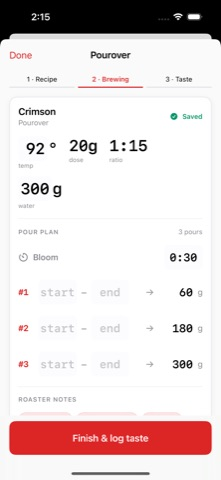
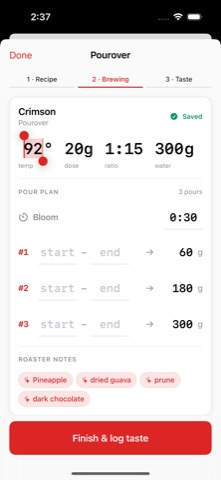
Refine live brew editor styling

diff --git a/web/src/components/recipe-readout.tsx b/web/src/components/recipe-readout.tsx
@@ -236,9 +236,11 @@ export function BrewStatGrid({
               }}
             />
           ) : (
-            <span className="font-mono text-3xl font-bold tabular-nums">
-              {stat.value}
-            </span>
+            <div className="flex h-11 items-center">
+              <span className="font-mono text-3xl font-bold leading-none tabular-nums">
+                {stat.value}
+              </span>
+            </div>
           )}
           <span className="text-xs text-muted-foreground">{stat.label}</span>
         </div>
@@ -261,7 +263,7 @@ function LiveNumberInput({
   onChange: (value?: number) => void;
 }) {
   return (
-    <label className="flex min-h-11 items-center rounded-lg bg-muted/40 px-1 focus-within:ring-2 focus-within:ring-ring">
+    <label className="flex h-11 items-center border-b border-transparent focus-within:border-primary">
       <Input
         type="text"
         inputMode={integer ? "numeric" : "decimal"}
@@ -274,9 +276,9 @@ function LiveNumberInput({
           const parsed = Number(raw);
           if (Number.isFinite(parsed)) onChange(integer ? Math.round(parsed) : parsed);
         }}
-        className="h-10 w-20 border-0 bg-transparent px-1 text-right font-mono text-3xl font-bold tabular-nums shadow-none focus-visible:ring-0"
+        className="h-11 w-auto min-w-[2ch] max-w-20 rounded-none border-0 bg-transparent px-0 text-right font-mono text-3xl font-bold leading-none tabular-nums shadow-none [field-sizing:content] focus-visible:ring-0 md:text-3xl dark:bg-transparent"
       />
-      <span className="font-mono text-3xl font-bold">{suffix}</span>
+      <span className="font-mono text-3xl font-bold leading-none">{suffix}</span>
     </label>
   );
 }
@@ -325,7 +327,7 @@ export function PourPlanList({
             aria-label="Bloom time"
             seconds={recipe.bloomTimeSec}
             onChange={(seconds) => onChange({ ...recipe, bloomTimeSec: seconds })}
-            className="h-11 w-24 text-center text-lg font-semibold"
+            className="h-11 w-16 rounded-none border-0 border-b border-transparent bg-transparent px-0 text-center font-mono text-base font-semibold shadow-none focus-visible:border-primary focus-visible:ring-0 md:text-base dark:bg-transparent"
             placeholder="—"
           />
         </div>
@@ -370,7 +372,7 @@ export function PourPlanList({
                     aria-label={`Pour ${index + 1} start time`}
                     seconds={pour?.startSec}
                     onChange={(seconds) => updatePour({ startSec: seconds })}
-                    className="h-11 w-[4.5rem] px-1 text-center text-lg font-semibold"
+                    className="h-11 w-14 rounded-none border-0 border-b border-transparent bg-transparent px-0 text-center font-mono text-base font-semibold shadow-none focus-visible:border-primary focus-visible:ring-0 md:text-base dark:bg-transparent"
                     placeholder="start"
                   />
                   <span className="text-muted-foreground">–</span>
@@ -379,7 +381,7 @@ export function PourPlanList({
                     aria-label={`Pour ${index + 1} end time`}
                     seconds={pour?.endSec}
                     onChange={(seconds) => updatePour({ endSec: seconds })}
-                    className="h-11 w-[4.5rem] px-1 text-center text-lg font-semibold"
+                    className="h-11 w-14 rounded-none border-0 border-b border-transparent bg-transparent px-0 text-center font-mono text-base font-semibold shadow-none focus-visible:border-primary focus-visible:ring-0 md:text-base dark:bg-transparent"
                     placeholder="end"
                   />
                 </div>
@@ -394,7 +396,7 @@ export function PourPlanList({
               )}
             </div>
             {onChange ? (
-              <label className="flex min-h-11 shrink-0 items-center rounded-lg bg-muted/40 px-1 focus-within:ring-2 focus-within:ring-ring">
+              <label className="flex min-h-11 shrink-0 items-baseline border-b border-transparent focus-within:border-primary">
                 <Input
                   type="text"
                   inputMode="decimal"
@@ -407,7 +409,7 @@ export function PourPlanList({
                     const parsed = Number(raw);
                     if (Number.isFinite(parsed)) updatePour({ toGrams: parsed });
                   }}
-                  className="h-10 w-16 border-0 bg-transparent px-1 text-right font-mono text-lg font-semibold tabular-nums shadow-none focus-visible:ring-0"
+                  className="h-10 w-14 rounded-none border-0 bg-transparent px-0 text-right font-mono text-base font-semibold tabular-nums shadow-none focus-visible:ring-0 md:text-base dark:bg-transparent"
                 />
                 <span className="text-sm text-muted-foreground">g</span>
               </label>

diff --git a/DripWatch/Features/Capture/BrewCaptureView.swift b/DripWatch/Features/Capture/BrewCaptureView.swift
@@ -804,7 +804,10 @@ private struct LockedBrewStat: View {
 
     var body: some View {
         VStack(alignment: .leading, spacing: 2) {
-            Text(value).font(.param(.title, weight: .semibold))
+            HStack(spacing: 0) {
+                Text(value).font(.param(.title, weight: .semibold))
+            }
+            .frame(height: 44, alignment: .center)
             Text(label).font(.caption2).foregroundStyle(.secondary)
         }
     }
@@ -817,20 +820,27 @@ private struct LiveRecipeNumberField: View {
     let suffix: String
     @Binding var value: Double?
     let allowsDecimal: Bool
+    @FocusState private var focused: Bool
 
     var body: some View {
         VStack(alignment: .leading, spacing: 2) {
             HStack(spacing: 1) {
                 TextField("—", value: $value,
                           format: .number.precision(.fractionLength(allowsDecimal ? 0...1 : 0...0)))
+                    .textFieldStyle(.plain)
                     .keyboardType(allowsDecimal ? .decimalPad : .numberPad)
                     .multilineTextAlignment(.trailing)
+                    .focused($focused)
                     .font(.param(.title, weight: .semibold))
-                    .frame(minWidth: 44, maxWidth: 76, minHeight: 44)
-                    .padding(.horizontal, 4)
-                    .background(Theme.crema.opacity(0.10), in: RoundedRectangle(cornerRadius: 8))
+                    .frame(minWidth: 44, maxWidth: 76)
                     .accessibilityLabel(label)
                 Text(suffix).font(.param(.title, weight: .semibold))
+            }
+            .frame(height: 44, alignment: .center)
+            .overlay(alignment: .bottom) {
+                if focused {
+                    Rectangle().fill(Theme.accent).frame(height: 2)
+                }
             }
             Text(label).font(.caption2).foregroundStyle(.secondary)
         }
@@ -853,7 +863,10 @@ private struct LivePourTimeField: View {
             .font(.param(.title3, weight: .semibold))
             .monospacedDigit()
             .frame(width: 68).frame(minHeight: 44)
-            .background(Theme.crema.opacity(0.10), in: RoundedRectangle(cornerRadius: 8))
+            .overlay(alignment: .bottom) {
+                Rectangle().fill(focused ? Theme.accent : .secondary.opacity(0.28))
+                    .frame(height: focused ? 2 : 1)
+            }
             .onChange(of: text) { _, newValue in
                 let (formatted, secs) = liveTimeEntry(newValue)
                 if formatted != newValue { text = formatted }
